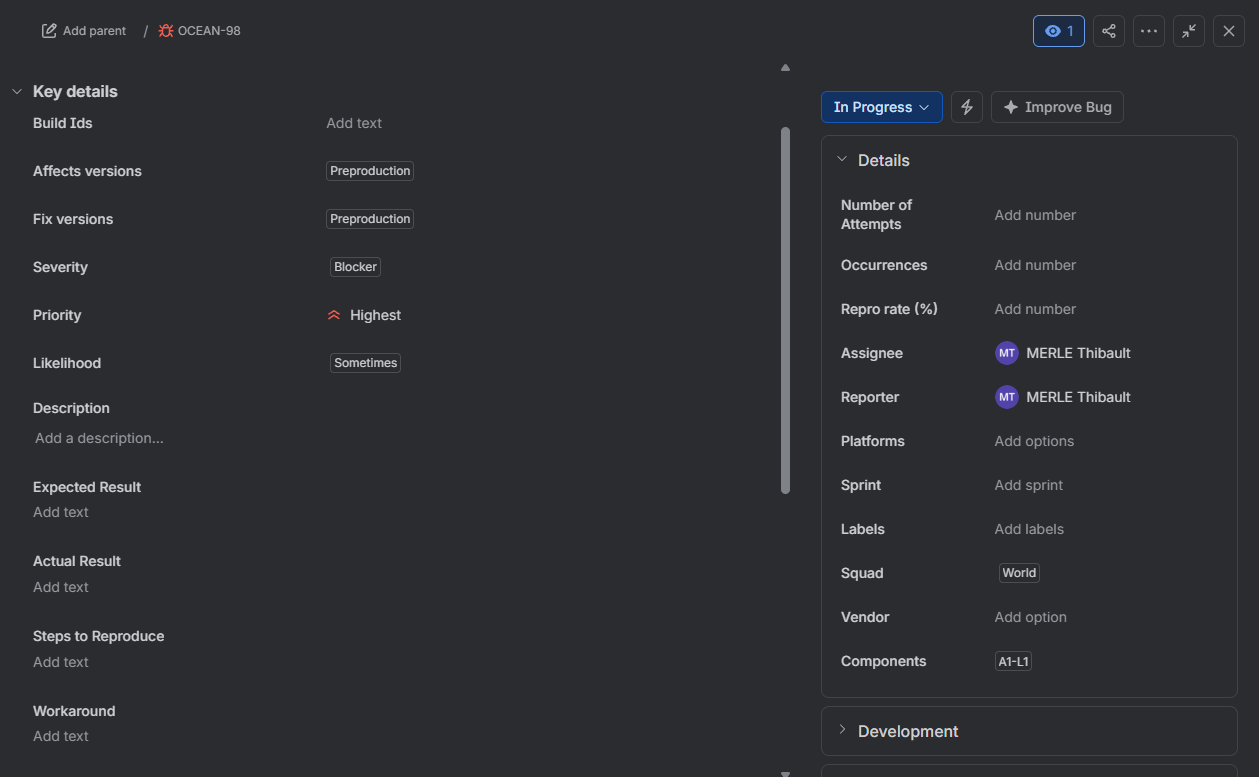
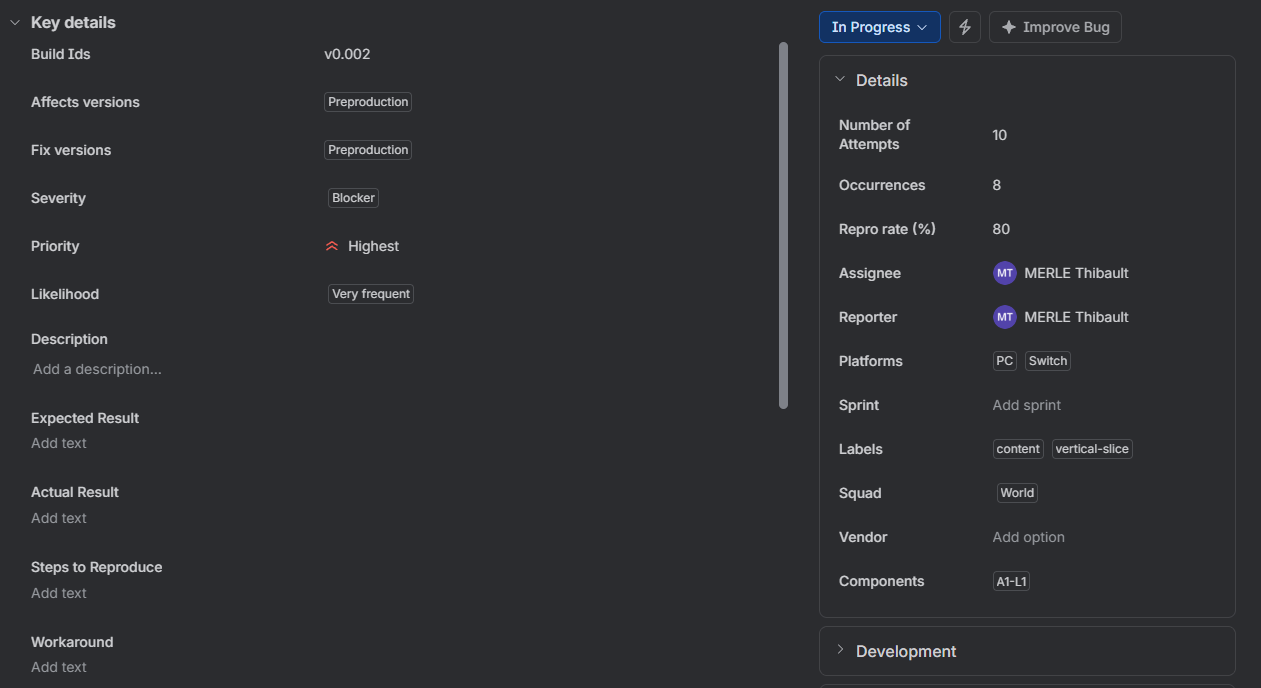
Projet Jira : capture du ticket de bug remplie (bloquant reproduit 8 fois sur 10) et légende adaptée
Claude-Session: https://claude.ai/code/session_01QtLoCRjyjnrE9a4PUV17cc

diff --git a/js/contenu.js b/js/contenu.js
@@ -316,7 +316,7 @@ const PROJECTS_FR = {
             LIGNE([
               T("J'ai ensuite retravaillé le ticket de bug en pensant à ses deux lecteurs : l'équipe QA, qui doit trouver dans le ticket toutes les informations utiles à son travail, et le producer, qui doit pouvoir le lire rapidement. En m'appuyant sur *The Pocket Mentor for Video Game Testing*, de Harún H. Ali, j'ai ajouté des **champs dédiés**. Le ticket situe d'abord le bug : le numéro de build, la version où il a été vu et celle où il sera corrigé, et l'Epic qu'il touche. Il le décrit ensuite par le résultat attendu et le résultat obtenu. Le nombre d'essais et d'occurrences donne enfin le **taux de reproduction**, qui indique si le bug revient à chaque fois ou seulement de temps en temps."),
               T("Pour le producer, le ticket sépare aussi la **sévérité** de la **priorité**. La sévérité dit à quel point le jeu est cassé, la priorité dit dans quel ordre on corrige : un bug peut être grave mais rare, ou bénin mais permanent, et c'est au producer d'arbitrer entre les deux. Avec le responsable, que Jira affiche, on voit d'un coup d'œil **ce qui est cassé, à quel point, qui s'en charge et pour quelle version**.")
-            ],[ IMG("images/jira-ticket-bug.png","Le ticket de bug et ses champs : build, versions, sévérité, priorité, taux de reproduction et responsable") ]),
+            ],[ IMG("images/jira-ticket-bug.png","Un bug bloquant reproduit 8 fois sur 10 : build, versions, sévérité, priorité, taux de reproduction et responsable") ]),
             LIGNE([
               T("Sur le board QA, les **swimlanes** sont des requêtes JQL qui rangent les bugs par sévérité, les bloquants en haut, et la carte affiche la priorité. Chaque colonne a **une limite de travail en cours** : quand une colonne déborde, l'équipe finit des bugs avant d'en ouvrir d'autres.")
             ],[ CAROUSEL([["images/jira-board-qa.png","Le board QA-Bugs : une ligne par sévérité"],["images/jira-colonnes-qa.png","Les colonnes et leurs limites de travail en cours"]]) ]),
@@ -658,7 +658,7 @@ const PROJECTS_EN = {
             LIGNE([
               T("I then reworked the bug ticket with its two readers in mind: the QA team, who need every useful detail directly in the ticket, and the producer, who must be able to read it quickly. Drawing on *The Pocket Mentor for Video Game Testing* by Harún H. Ali, I added **dedicated fields**. The ticket first places the bug: the build number, the version where it was found and the one where it will be fixed, and the Epic it affects. It then describes it through the expected and actual results. Finally, the number of attempts and occurrences gives the **repro rate**, which shows whether the bug comes back every time or only now and then."),
               T("For the producer, the ticket also separates **severity** from **priority**. Severity says how broken the game is, priority sets the order in which bugs are fixed: a bug can be severe but rare, or minor but permanent, and it is up to the producer to weigh the two. With the assignee, which Jira displays, you can see at a glance **what is broken, how badly, who is handling it and for which version**.")
-            ],[ IMG("images/jira-ticket-bug.png","The bug ticket and its fields: build, versions, severity, priority, repro rate and assignee") ]),
+            ],[ IMG("images/jira-ticket-bug.png","A blocker bug reproduced 8 times out of 10: build, versions, severity, priority, repro rate and assignee") ]),
             LIGNE([
               T("On the QA board, **swimlanes** are JQL queries that sort bugs by severity, blockers at the top, and the card shows the priority. Each column has **a work-in-progress limit**: when a column overflows, the team finishes bugs before opening new ones.")
             ],[ CAROUSEL([["images/jira-board-qa.png","The QA-Bugs board: one lane per severity"],["images/jira-colonnes-qa.png","The columns and their work-in-progress limits"]]) ]),

diff --git a/index.html b/index.html
@@ -24,7 +24,7 @@
 <meta property="og:locale" content="fr_FR">
 <meta property="og:locale:alternate" content="en_GB">
 <meta name="twitter:card" content="summary_large_image">
-<link rel="stylesheet" href="css/style.css?v=20261028-1510">
+<link rel="stylesheet" href="css/style.css?v=20261028-1515b">
 </head>
 
 <body>
@@ -39,7 +39,7 @@
   <h2 id="h-legal" class="sr">Informations légales</h2><div class="legal-row" id="legal"></div>
 </div></footer>
 
-<script src="js/contenu.js?v=20261028-1510"></script>
-<script src="js/app.js?v=20261028-1510"></script>
+<script src="js/contenu.js?v=20261028-1515b"></script>
+<script src="js/app.js?v=20261028-1515b"></script>
 </body>
 </html>
